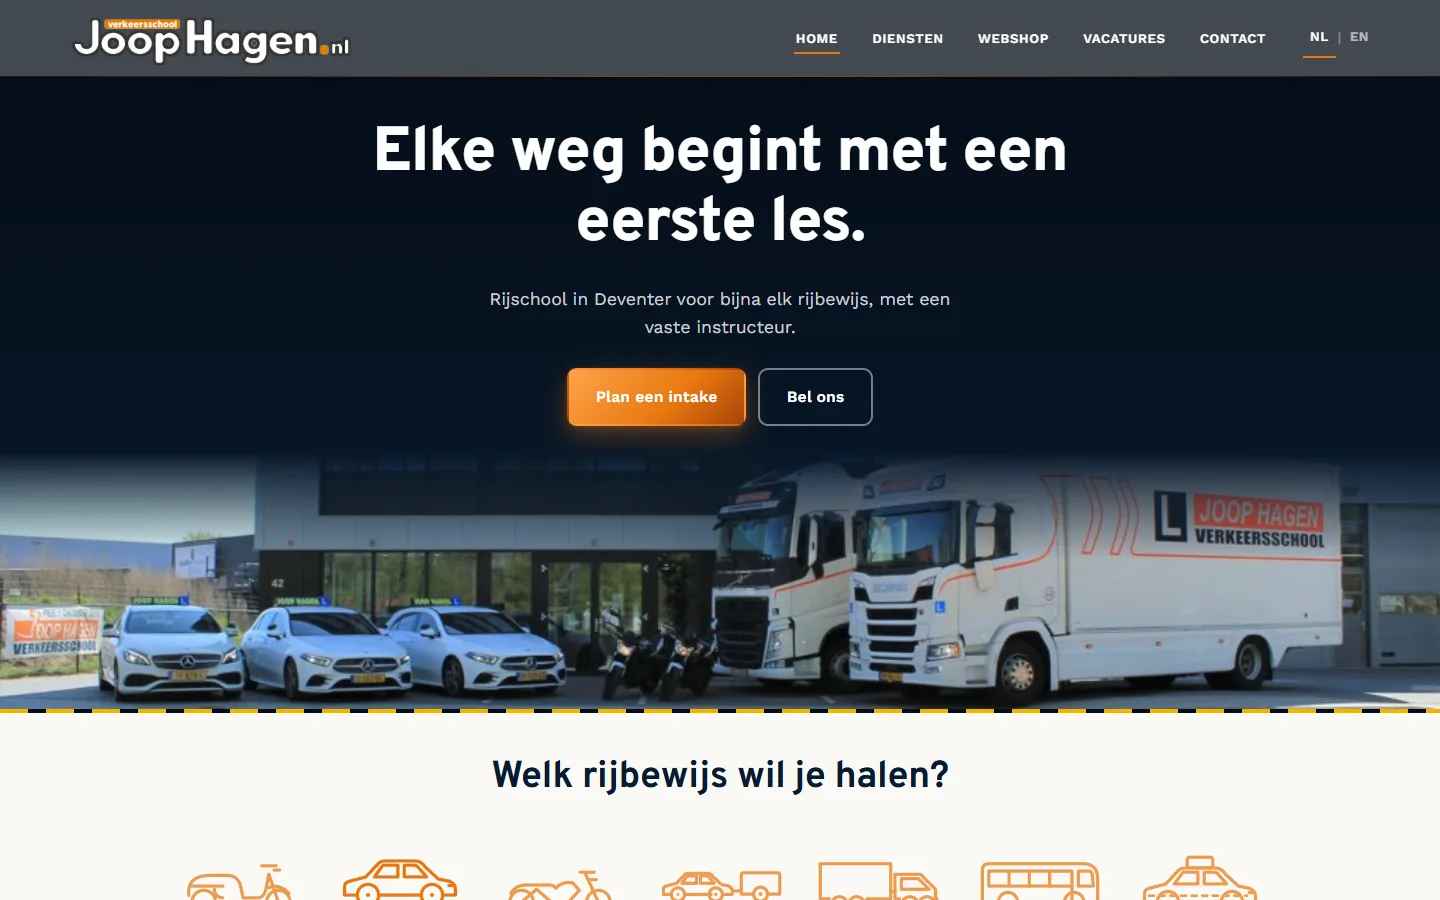
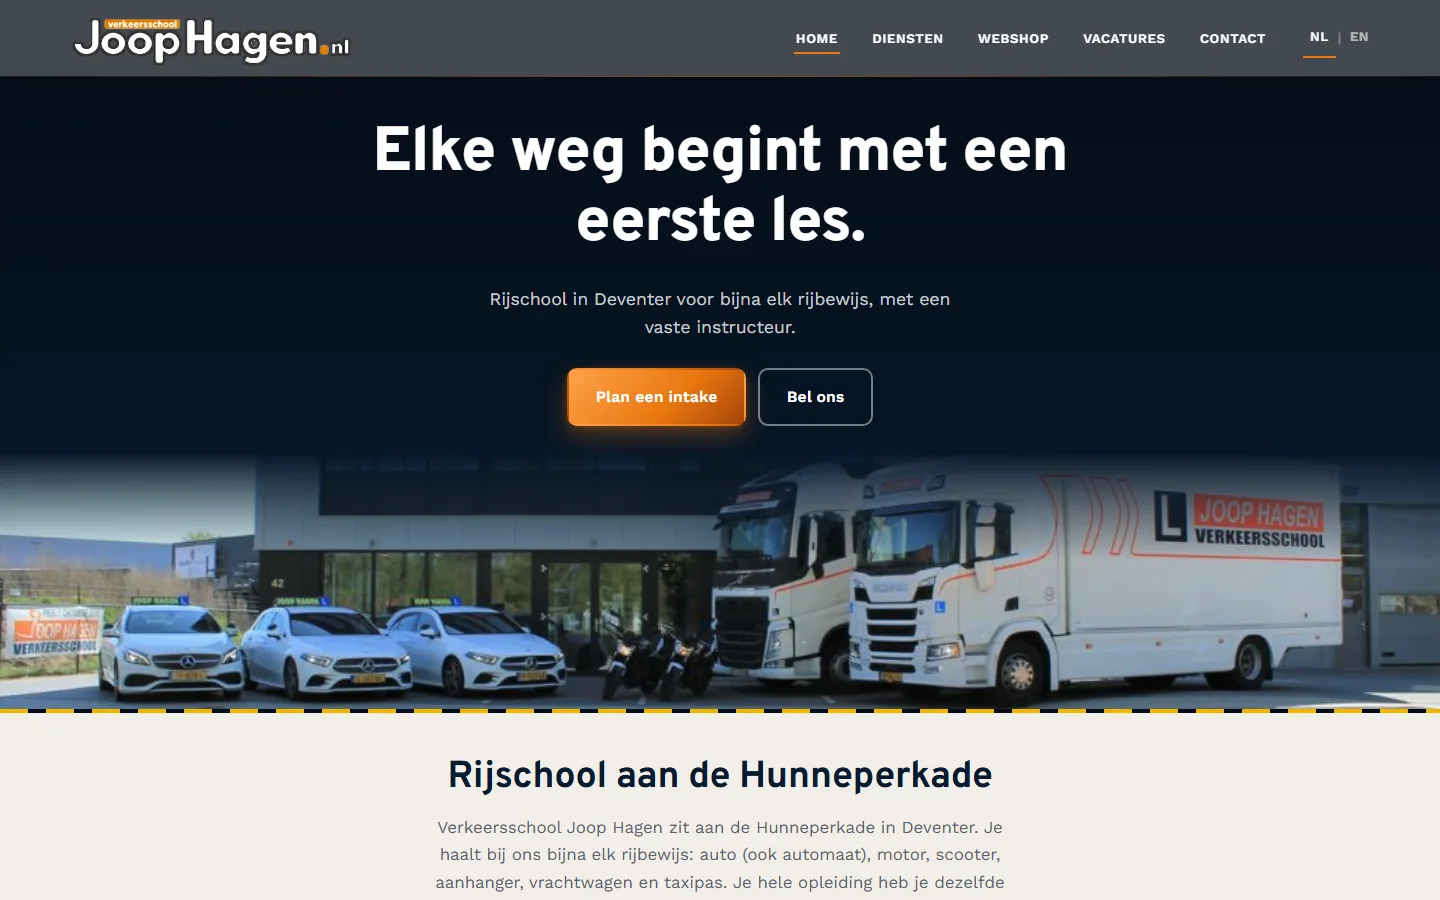
Design 3: add short intro before the chooser, give social band and footer more room

Changed region(s): [[0.125, 0.84, 0.875, 1.0]]

diff --git a/ontwerpen/ontwerp-3/index.html b/ontwerpen/ontwerp-3/index.html
@@ -76,10 +76,10 @@
     <nav class="main-nav" id="main-nav" aria-label="Hoofdmenu">
       <ul>
         <li><a href="index.html" aria-current="page">Home</a></li>
-        <li><a href="../../diensten.html">Diensten</a></li>
-        <li><a href="../../webshop.html">Webshop</a></li>
-        <li><a href="../../vacatures.html">Vacatures</a></li>
-        <li><a href="../../contact.html">Contact</a></li>
+        <li><a href="diensten.html">Diensten</a></li>
+        <li><a href="webshop.html">Webshop</a></li>
+        <li><a href="vacatures.html">Vacatures</a></li>
+        <li><a href="contact.html">Contact</a></li>
       </ul>
       <div class="lang-switch lang-switch--menu" role="group" aria-label="Taal / Language"><button type="button" data-lang="nl" lang="nl" aria-pressed="true">NL</button><span aria-hidden="true">|</span><button type="button" data-lang="en" lang="en" aria-pressed="false">EN</button></div>
     </nav>
@@ -96,7 +96,7 @@
       <h1>Elke weg begint met een eerste les.</h1>
       <p>Rijschool in Deventer voor bijna elk rijbewijs, met een vaste instructeur.</p>
       <div class="k-actions">
-        <a href="../../contact.html" class="btn btn-primary">Plan een intake</a>
+        <a href="contact.html" class="btn btn-primary">Plan een intake</a>
         <a href="tel:+31570635036" class="btn btn-outline-light">Bel ons</a>
       </div>
     </div>
@@ -104,10 +104,32 @@
     <div class="k-hero-end" aria-hidden="true"></div>
   </section>
 
+  <section class="k-intro">
+    <div class="container">
+      <h2>Rijschool aan de Hunneperkade</h2>
+      <p>Verkeersschool Joop Hagen zit aan de Hunneperkade in Deventer. Je haalt bij ons bijna elk rijbewijs: auto (ook automaat), motor, scooter, aanhanger, vrachtwagen en taxipas. Je hele opleiding heb je dezelfde vaste instructeur.</p>
+      <ul class="k-facts">
+        <li>
+          <svg class="icon" viewBox="0 0 24 24" aria-hidden="true"><use href="#i-badge"/></svg>
+          <div><h3>Hoge slagingspercentages</h3><p>Bovengemiddeld veel leerlingen slagen in één keer.</p></div>
+        </li>
+        <li>
+          <svg class="icon" viewBox="0 0 24 24" aria-hidden="true"><use href="#i-user"/></svg>
+          <div><h3>Eén vaste instructeur</h3><p>Dezelfde instructeur tijdens je hele opleiding.</p></div>
+        </li>
+        <li>
+          <svg class="icon" viewBox="0 0 24 24" aria-hidden="true"><use href="#i-car"/></svg>
+          <div><h3>Moderne lesvoertuigen</h3><p>Actuele modellen met de laatste veiligheidsvoorzieningen.</p></div>
+        </li>
+      </ul>
+    </div>
+  </section>
+
   <section class="k-chooser">
     <div class="container">
       <div class="section-head center">
         <h2>Welk rijbewijs wil je halen?</h2>
+        <p class="k-lead">Weet je al wat je wilt halen? Kies hieronder.</p>
       </div>
       <div class="chooser-tabs" role="tablist" aria-label="Kies een rijbewijs">
       <button type="button" role="tab" class="lic-tab" id="tab-am" aria-controls="panel-am" aria-selected="false" tabindex="-1">
@@ -157,8 +179,8 @@
       <div role="tabpanel" class="lic-panel" id="panel-am" aria-labelledby="tab-am" tabindex="0" hidden>
         <div class="lic-intro">
           <h3>Rijbewijs AM</h3>
-          <a class="btn btn-primary" href="../../contact.html?rijbewijs=AM">Plan een intake voor rijbewijs AM</a>
-        <a class="lic-more" href="../../diensten.html#scooter">Prijzen en details</a>
+          <a class="btn btn-primary" href="contact.html?rijbewijs=AM">Plan een intake voor rijbewijs AM</a>
+        <a class="lic-more" href="diensten.html#scooter">Prijzen en details</a>
         </div>
         <dl class="lic-spec">
           <div><dt>Wat mag je besturen?</dt><dd>Bromfiets en scooter.</dd></div>
@@ -194,8 +216,8 @@
           </div>
         </div>
         <div class="lic-intro">
-          <a class="btn btn-primary" id="btn-b" href="../../contact.html?rijbewijs=B">Plan een intake voor rijbewijs B</a>
-        <a class="lic-more" href="../../diensten.html#auto">Prijzen en details</a>
+          <a class="btn btn-primary" id="btn-b" href="contact.html?rijbewijs=B">Plan een intake voor rijbewijs B</a>
+        <a class="lic-more" href="diensten.html#auto">Prijzen en details</a>
         </div>
         <dl class="lic-spec">
           <div><dt>Wat mag je besturen?</dt><dd>Een auto.</dd></div>
@@ -207,8 +229,8 @@
       <div role="tabpanel" class="lic-panel" id="panel-a" aria-labelledby="tab-a" tabindex="0" hidden>
         <div class="lic-intro">
           <h3>Rijbewijs A1, A2 en A</h3>
-          <a class="btn btn-primary" href="../../contact.html?rijbewijs=motor">Plan een intake voor rijbewijs A</a>
-        <a class="lic-more" href="../../diensten.html#motor">Prijzen en details</a>
+          <a class="btn btn-primary" href="contact.html?rijbewijs=motor">Plan een intake voor rijbewijs A</a>
+        <a class="lic-more" href="diensten.html#motor">Prijzen en details</a>
         </div>
         <dl class="lic-spec">
           <div><dt>Wat mag je besturen?</dt><dd>A1: lichte motoren. A2: middelzware motoren. A: zware motoren. Onze instructeurs adviseren je over de juiste categorie.</dd></div>
@@ -220,8 +242,8 @@
       <div role="tabpanel" class="lic-panel" id="panel-be" aria-labelledby="tab-be" tabindex="0" hidden>
         <div class="lic-intro">
           <h3>Rijbewijs BE</h3>
-          <a class="btn btn-primary" href="../../contact.html?rijbewijs=BE">Plan een intake voor rijbewijs BE</a>
-        <a class="lic-more" href="../../diensten.html#auto-aanhanger">Prijzen en details</a>
+          <a class="btn btn-primary" href="contact.html?rijbewijs=BE">Plan een intake voor rijbewijs BE</a>
+        <a class="lic-more" href="diensten.html#auto-aanhanger">Prijzen en details</a>
         </div>
         <dl class="lic-spec">
           <div><dt>Wat mag je besturen?</dt><dd>Een auto met aanhanger.</dd></div>
@@ -233,8 +255,8 @@
       <div role="tabpanel" class="lic-panel" id="panel-c" aria-labelledby="tab-c" tabindex="0" hidden>
         <div class="lic-intro">
           <h3>Rijbewijs C en CE</h3>
-          <a class="btn btn-primary" href="../../contact.html?rijbewijs=vrachtwagen">Plan een intake voor rijbewijs C of CE</a>
-        <a class="lic-more" href="../../diensten.html#vrachtwagen">Prijzen en details</a>
+          <a class="btn btn-primary" href="contact.html?rijbewijs=vrachtwagen">Plan een intake voor rijbewijs C of CE</a>
+        <a class="lic-more" href="diensten.html#vrachtwagen">Prijzen en details</a>
         </div>
         <dl class="lic-spec">
           <div><dt>Wat mag je besturen?</dt><dd>C: een vrachtwagen. CE: een vrachtwagen met aanhanger.</dd></div>
@@ -247,7 +269,7 @@
       <div role="tabpanel" class="lic-panel" id="panel-d" aria-labelledby="tab-d" tabindex="0" hidden>
         <div class="lic-intro">
           <h3>Rijbewijs D</h3>
-          <a class="btn btn-primary" href="../../contact.html?rijbewijs=D">Plan een intake voor rijbewijs D</a>
+          <a class="btn btn-primary" href="contact.html?rijbewijs=D">Plan een intake voor rijbewijs D</a>
         </div>
         <dl class="lic-spec">
           <!-- TODO (verborgen): Wat mag je besturen?: bus (D) staat nog niet op diensten.html; invullen na overleg met de eigenaar -->
@@ -259,8 +281,8 @@
       <div role="tabpanel" class="lic-panel" id="panel-taxi" aria-labelledby="tab-taxi" tabindex="0" hidden>
         <div class="lic-intro">
           <h3>Taxipas</h3>
-          <a class="btn btn-primary" href="../../contact.html?rijbewijs=taxi">Plan een intake voor de taxipas</a>
-        <a class="lic-more" href="../../diensten.html#taxi">Prijzen en details</a>
+          <a class="btn btn-primary" href="contact.html?rijbewijs=taxi">Plan een intake voor de taxipas</a>
+        <a class="lic-more" href="diensten.html#taxi">Prijzen en details</a>
         </div>
         <dl class="lic-spec">
           <div><dt>Wat mag je doen?</dt><dd>Als taxichauffeur aan de slag, met de taxipas.</dd></div>
@@ -270,38 +292,6 @@
         </dl>
       </div>
       </div>
-    </div>
-  </section>
-
-  <section class="k-reasons">
-    <div class="container">
-      <div class="section-head center">
-        <h2>Waarom leerlingen voor Joop Hagen kiezen</h2>
-      </div>
-      <div class="k-reasons-grid">
-        <div class="reason">
-          <svg class="icon" viewBox="0 0 24 24" aria-hidden="true"><use href="#i-badge"/></svg>
-          <div>
-            <h3>Hoge slagingspercentages</h3>
-            <p>Onze leerlingen halen bovengemiddeld vaak in één keer hun rijbewijs, dankzij gedegen voorbereiding op elk examenonderdeel.</p>
-          </div>
-        </div>
-        <div class="reason">
-          <svg class="icon" viewBox="0 0 24 24" aria-hidden="true"><use href="#i-user"/></svg>
-          <div>
-            <h3>Eén vaste instructeur</h3>
-            <p>Je doorloopt je hele opleiding bij dezelfde instructeur, die jouw tempo en leerpunten kent.</p>
-          </div>
-        </div>
-        <div class="reason">
-          <svg class="icon" viewBox="0 0 24 24" aria-hidden="true"><use href="#i-car"/></svg>
-          <div>
-            <h3>Moderne lesvoertuigen</h3>
-            <p>Je leert rijden in actuele modellen, uitgerust met de laatste veiligheidsvoorzieningen.</p>
-          </div>
-        </div>
-      </div>
-      <p class="k-more"><a href="../../diensten.html">Alle diensten</a></p>
     </div>
   </section>
 
@@ -359,8 +349,8 @@
       </div>
       <div>
         <h4>Navigatie</h4>
-        <p><a href="../../diensten.html">Diensten</a> · <a href="../../webshop.html">Webshop</a></p>
-        <p><a href="../../vacatures.html">Vacatures</a> · <a href="../../contact.html">Contact</a></p>
+        <p><a href="diensten.html">Diensten</a> · <a href="webshop.html">Webshop</a></p>
+        <p><a href="vacatures.html">Vacatures</a> · <a href="contact.html">Contact</a></p>
       </div>
     </div>
     <!-- TODO: KvK-nummer en privacylink toevoegen zodra bekend (staat nu ook niet op de huidige site). -->

diff --git a/ontwerpen/ontwerp-3/design.css b/ontwerpen/ontwerp-3/design.css
@@ -13,13 +13,16 @@
 .k-chooser .container { max-width: 1160px; }
 .k-chooser .lic-panel { padding-top: 34px; }
 
-.k-reasons { padding: 40px 0 44px; background: var(--paper-dim); }
-.k-reasons .section-head { margin-bottom: 1.8em; }
-.k-reasons-grid { display: grid; grid-template-columns: repeat(3, minmax(0, 1fr)); gap: 40px; }
-.k-reasons .reason p { max-width: 36ch; }
-.k-more { margin: 2em 0 0; max-width: none; text-align: center; font-size: 0.95rem; }
-.k-more a { font-weight: 600; color: var(--ink); text-decoration: none; border-bottom: 1px solid var(--line); }
-.k-more a:hover { color: var(--route); border-color: var(--route); }
+.k-intro { padding: 44px 0 36px; background: var(--paper-dim); }
+.k-intro .container { max-width: 1060px; text-align: center; }
+.k-intro h2 { margin-bottom: 0.4em; }
+.k-intro > .container > p { max-width: 58ch; margin: 0 auto 1.8em; font-size: 1.05rem; }
+.k-facts { list-style: none; margin: 0; padding: 0; display: grid; grid-template-columns: repeat(3, minmax(0, 1fr)); gap: 32px; text-align: left; }
+.k-facts li { display: flex; gap: 14px; align-items: flex-start; }
+.k-facts .icon { width: 30px; height: 30px; flex-shrink: 0; color: var(--route); }
+.k-facts h3 { font-size: 1rem; margin: 0 0 0.2em; }
+.k-facts p { margin: 0; font-size: 0.92rem; }
+.k-lead { margin: 0.5em auto 0; color: var(--text-soft); }
 
 .k-reviews { padding: 40px 0 46px; }
 .k-reviews .section-head { margin-bottom: 1.2em; }
@@ -31,7 +34,8 @@
 .k-quotes .quote::before { content: '\201C'; display: block; font-family: var(--font-display); font-weight: 800; font-size: 3.2rem; line-height: 0.7; color: var(--route); margin-bottom: 10px; }
 
 @media (max-width: 900px) {
-  .k-reasons-grid, .k-quotes { grid-template-columns: minmax(0, 1fr); gap: 26px; }
+  .k-quotes { grid-template-columns: minmax(0, 1fr); gap: 26px; }
+  .k-facts { grid-template-columns: minmax(0, 1fr); gap: 18px; }
   .k-chooser { padding-top: 40px; }
 }
 @media (max-width: 720px) {
@@ -39,7 +43,38 @@
   .k-hero-text { padding: 36px 16px 22px; }
   .k-actions .btn { flex: 1 1 auto; justify-content: center; }
   .k-photo { aspect-ratio: auto; height: 176px; object-position: 64% center; }
-  .k-chooser .container, .k-reasons .container, .k-reviews .container { padding: 0 16px; }
+  .k-intro .container, .k-chooser .container, .k-reviews .container { padding: 0 16px; }
   .k-chooser .chooser-tabs { margin: 0 -16px; padding: 0 16px; scroll-padding: 0 16px; }
-  .k-reasons, .k-reviews { padding: 38px 0; }
+  .k-intro { padding: 36px 0 30px; }
+  .k-reviews { padding: 38px 0; }
+}
+
+/* ---- Inner pages (diensten, contact, vacatures, webshop): classic, centred hero ---- */
+.inner .hero { padding: 52px 0 30px !important; text-align: center; }
+.inner .hero .container { text-align: center !important; justify-items: center; }
+.inner .hero h1 { margin-left: auto; margin-right: auto; font-size: clamp(2.2rem, 4vw, 3.3rem); }
+.inner .hero p { margin-left: auto; margin-right: auto; max-width: 52ch; }
+.inner .hero .callout { margin-left: auto; margin-right: auto; text-align: left; }
+.inner .hero .hero-eyebrow { justify-content: center; }
+.inner .hero + .lane-divider { height: 4px; background: repeating-linear-gradient(90deg, var(--lane) 0 28px, var(--ink-black) 28px 46px); }
+@media (max-width: 720px) { .inner .hero { padding: 38px 0 24px !important; } }
+
+/* ---- Social band and footer: more room ---- */
+.social-band { padding: 64px 0; }
+.social-band .container { align-items: center; }
+.social-band-actions { align-items: stretch; }
+.social-band-actions .btn { height: 64px; padding-top: 0; padding-bottom: 0; justify-content: center; }
+.mini-footer { padding: 72px 0 32px; }
+.mf-grid { gap: 48px; margin-bottom: 56px; }
+.mini-footer .footer-logo-img { margin-bottom: 24px; }
+.mini-footer p { line-height: 1.7; margin-bottom: 0.2em; }
+.mini-footer .mf-route { display: inline-block; margin-top: 10px; }
+.mf-hours { line-height: 1.7; gap: 6px 20px; }
+.mini-footer .footer-bottom { padding-top: 24px; }
+@media (max-width: 900px) { .mf-grid { gap: 40px 48px; } }
+@media (max-width: 720px) {
+  .social-band { padding: 44px 0; }
+  .social-band .container { align-items: stretch; }
+  .mini-footer { padding: 48px 0 28px; }
+  .mf-grid { gap: 32px; margin-bottom: 40px; }
 }

diff --git a/ontwerpen/lang-ontwerpen.js b/ontwerpen/lang-ontwerpen.js
@@ -19,5 +19,11 @@ Object.assign(window.I18N_LANGS.en = window.I18N_LANGS.en || {}, {
   "Intake": "Intake",
   "Bel": "Call",
   "Alle diensten": "All services",
-  "Onze lesauto's, motoren en vrachtwagen voor het gebouw aan de Hunneperkade": "Our lesson cars, motorcycles and truck outside the building on the Hunneperkade"
+  "Onze lesauto's, motoren en vrachtwagen voor het gebouw aan de Hunneperkade": "Our lesson cars, motorcycles and truck outside the building on the Hunneperkade",
+  "Rijschool aan de Hunneperkade": "Driving school on the Hunneperkade",
+  "Verkeersschool Joop Hagen zit aan de Hunneperkade in Deventer. Je haalt bij ons bijna elk rijbewijs: auto (ook automaat), motor, scooter, aanhanger, vrachtwagen en taxipas. Je hele opleiding heb je dezelfde vaste instructeur.": "Verkeersschool Joop Hagen is on the Hunneperkade in Deventer. You can get almost any licence with us: car (automatic too), motorcycle, scooter, trailer, truck and taxi pass. You have the same regular instructor for your whole course.",
+  "Bovengemiddeld veel leerlingen slagen in één keer.": "More learners than average pass first time.",
+  "Dezelfde instructeur tijdens je hele opleiding.": "The same instructor throughout your whole course.",
+  "Actuele modellen met de laatste veiligheidsvoorzieningen.": "Current models with the latest safety features.",
+  "Weet je al wat je wilt halen? Kies hieronder.": "Already know what you want to get? Choose below."
 });
